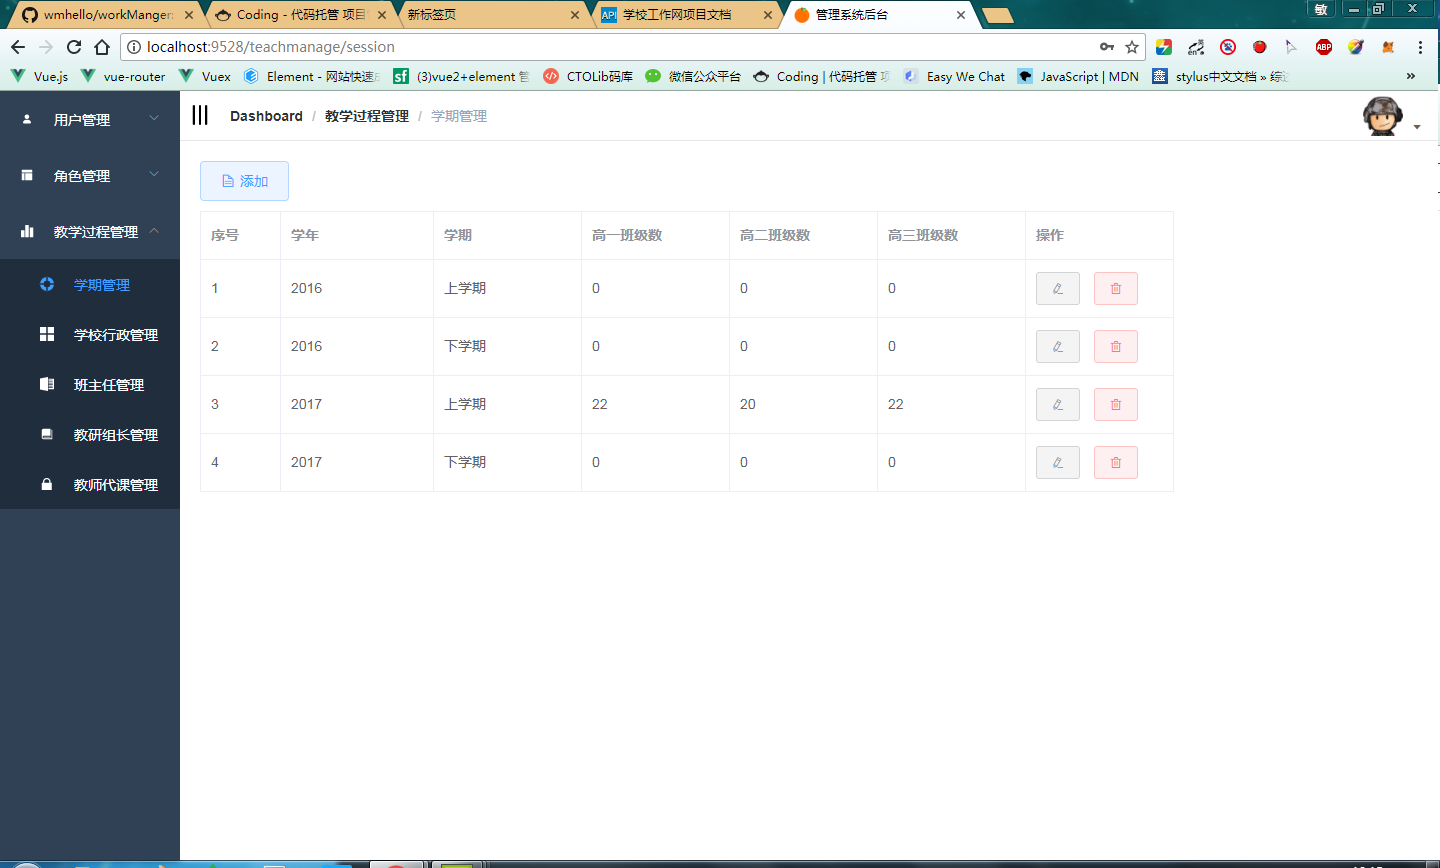
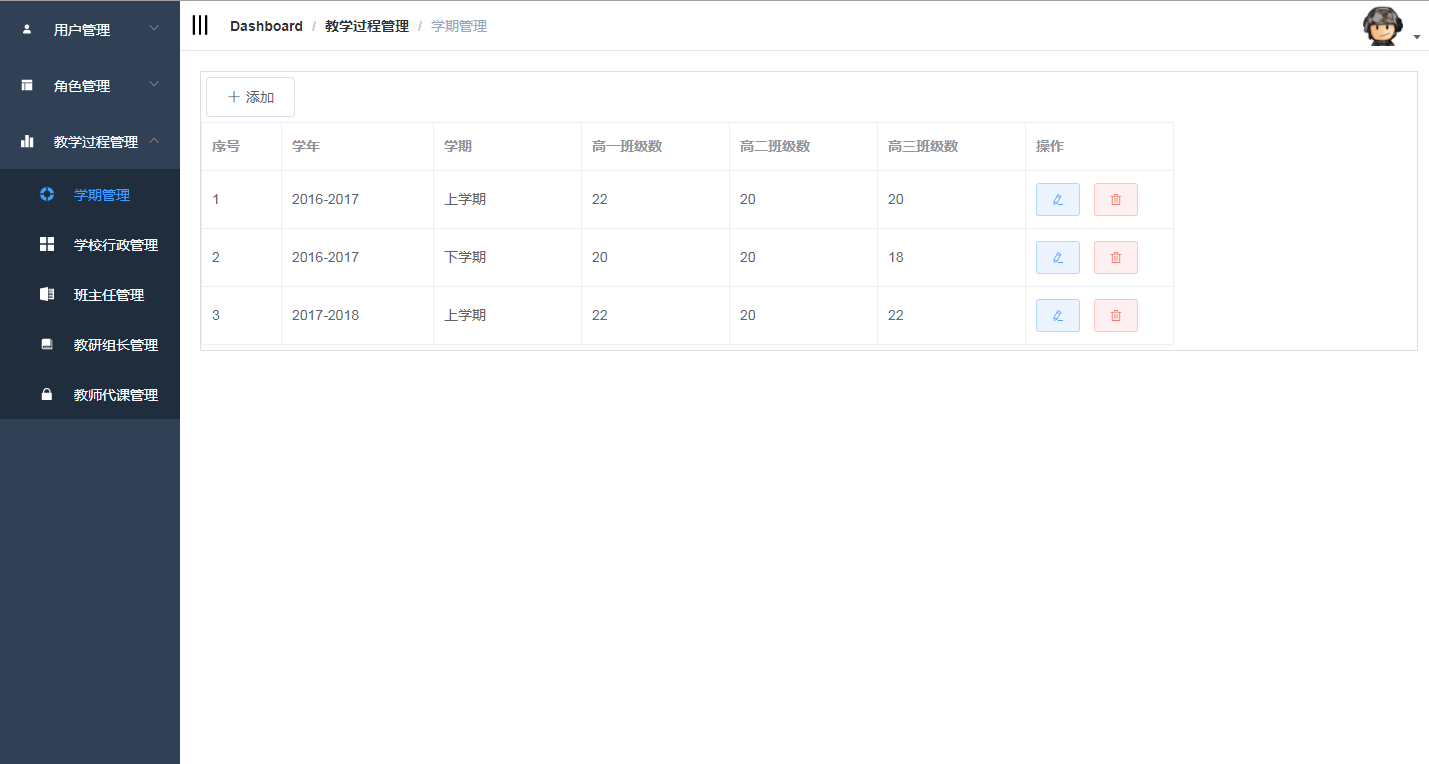
增加项目截图  用于在github上显示

diff --git a/README.md b/README.md
@@ -48,7 +48,10 @@ laravel5.5 + vuejs 2.5.2 + vue-router + vuex +element ui 2.0 + easywechat
 ![用户管理页面](https://github.com/wmhello/workManger/blob/master/Screenshot/user-manger.png)
 ### 用户编辑页面
 ![用户编辑页面](https://github.com/wmhello/workManger/blob/master/Screenshot/edit-user.png)
-
+### 行政管理页面
+![行政管理页面](https://github.com/wmhello/workManger/blob/master/Screenshot/leader-manger.png)
+### 创建新学期页面
+![创建新学期页面](https://github.com/wmhello/workManger/blob/master/Screenshot/new-session.png)
 
 # 说明
 
